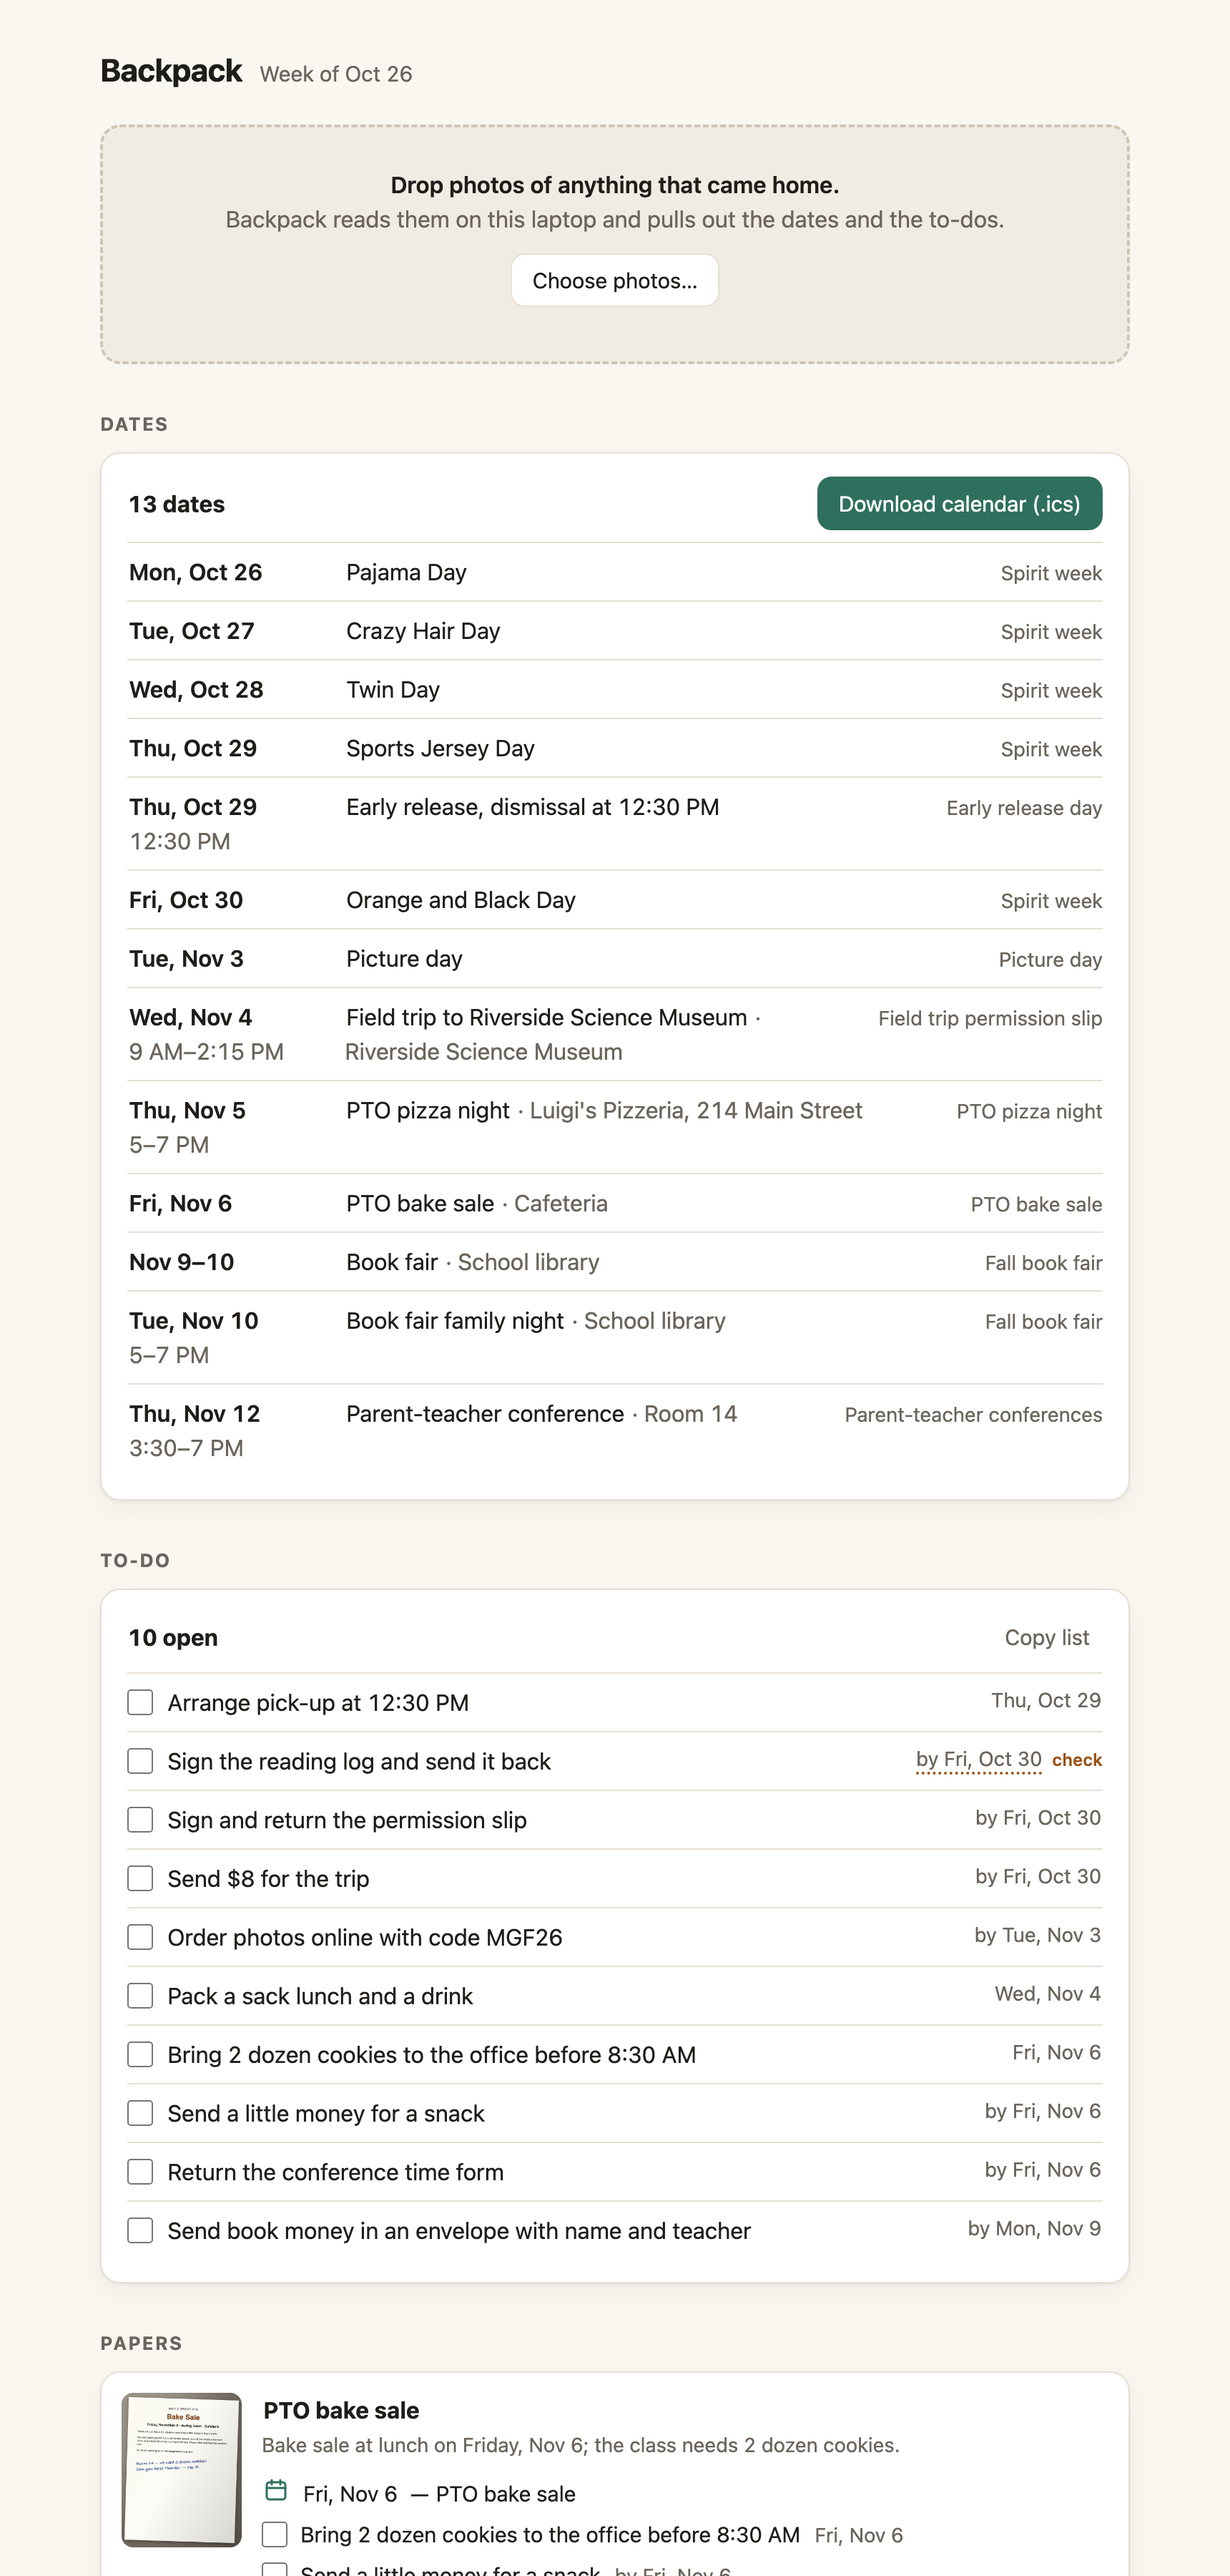
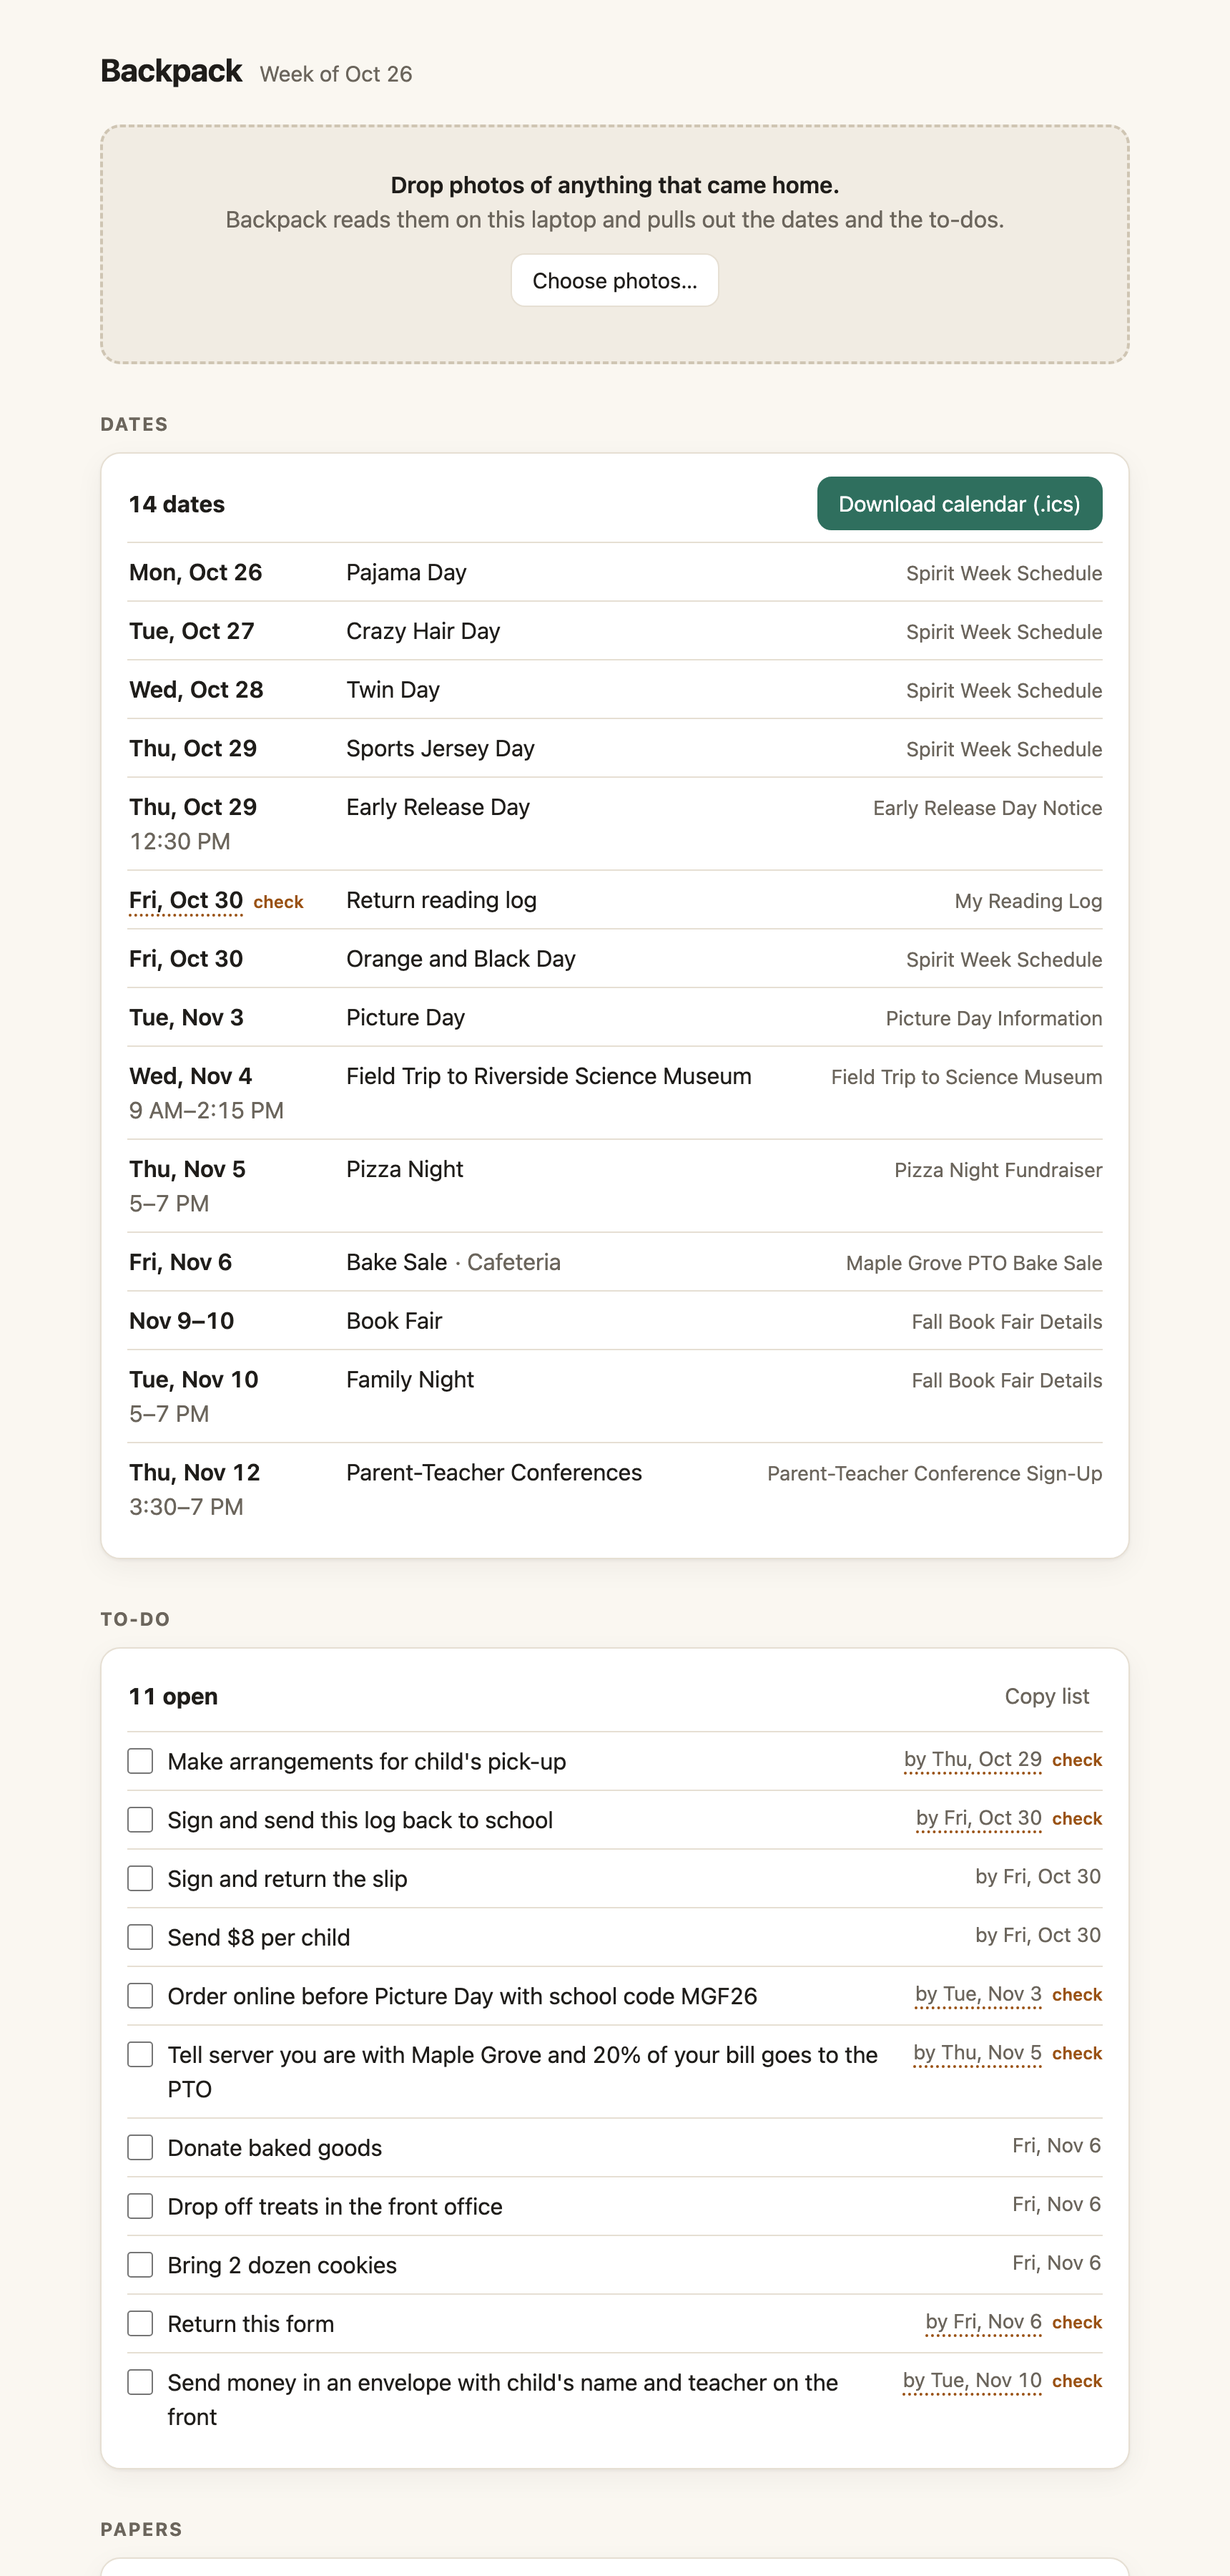
screenshots show what gemma4:e4b really read from the fixtures

diff --git a/internal/server/screenshots_test.go b/internal/server/screenshots_test.go
@@ -2,9 +2,12 @@
 
 package server
 
-// Run with `make screenshots`. It seeds a store with the fixture papers,
-// serves the real page and has headless Chrome take a picture of each
-// state into docs/img. Set CHROME to use another browser binary.
+// Run with `make screenshots`. It seeds a store with the fixture papers and
+// what gemma4:e4b read from them in the live check
+// (testdata/papers/gemma4-e4b.readings.json, written by
+// `BACKPACK_LIVE_OUT=... make live-check`), serves the real page and has
+// headless Chrome take a picture of each state into docs/img. Set CHROME to
+// use another browser binary.
 
 import (
 	"context"
@@ -47,9 +50,17 @@ func fixtures(t *testing.T) []string {
 	return files
 }
 
-// seed adds fixture photos; done ones get the expected reading.
+// seed adds fixture photos; done ones get what the model read from them.
 func seed(t *testing.T, st *store.Store, files []string, status string, at time.Time) {
 	t.Helper()
+	var readings map[string]reader.Reading
+	raw, err := os.ReadFile("../../testdata/papers/gemma4-e4b.readings.json")
+	if err != nil {
+		t.Fatal(err)
+	}
+	if err := json.Unmarshal(raw, &readings); err != nil {
+		t.Fatal(err)
+	}
 	for i, f := range files {
 		data, _ := os.ReadFile(f)
 		jpg, err := reader.Prepare(data)
@@ -63,10 +74,10 @@ func seed(t *testing.T, st *store.Store, files []string, status string, at time.
 		if status == store.Queued {
 			continue
 		}
-		var r reader.Reading
-		raw, _ := os.ReadFile(strings.TrimSuffix(f, ".jpg") + ".expected.json")
-		json.Unmarshal(raw, &r)
-		r = reader.Validate(r, shotDay)
+		r, ok := readings[strings.TrimSuffix(filepath.Base(f), ".jpg")]
+		if !ok {
+			t.Fatalf("no reading for %s", f)
+		}
 		st.Update(p.ID, func(q *store.Paper) error {
 			q.Status, q.Reading, q.ReadMs = status, r, 9000+int64(i)*700
 			if status == store.Failed {
